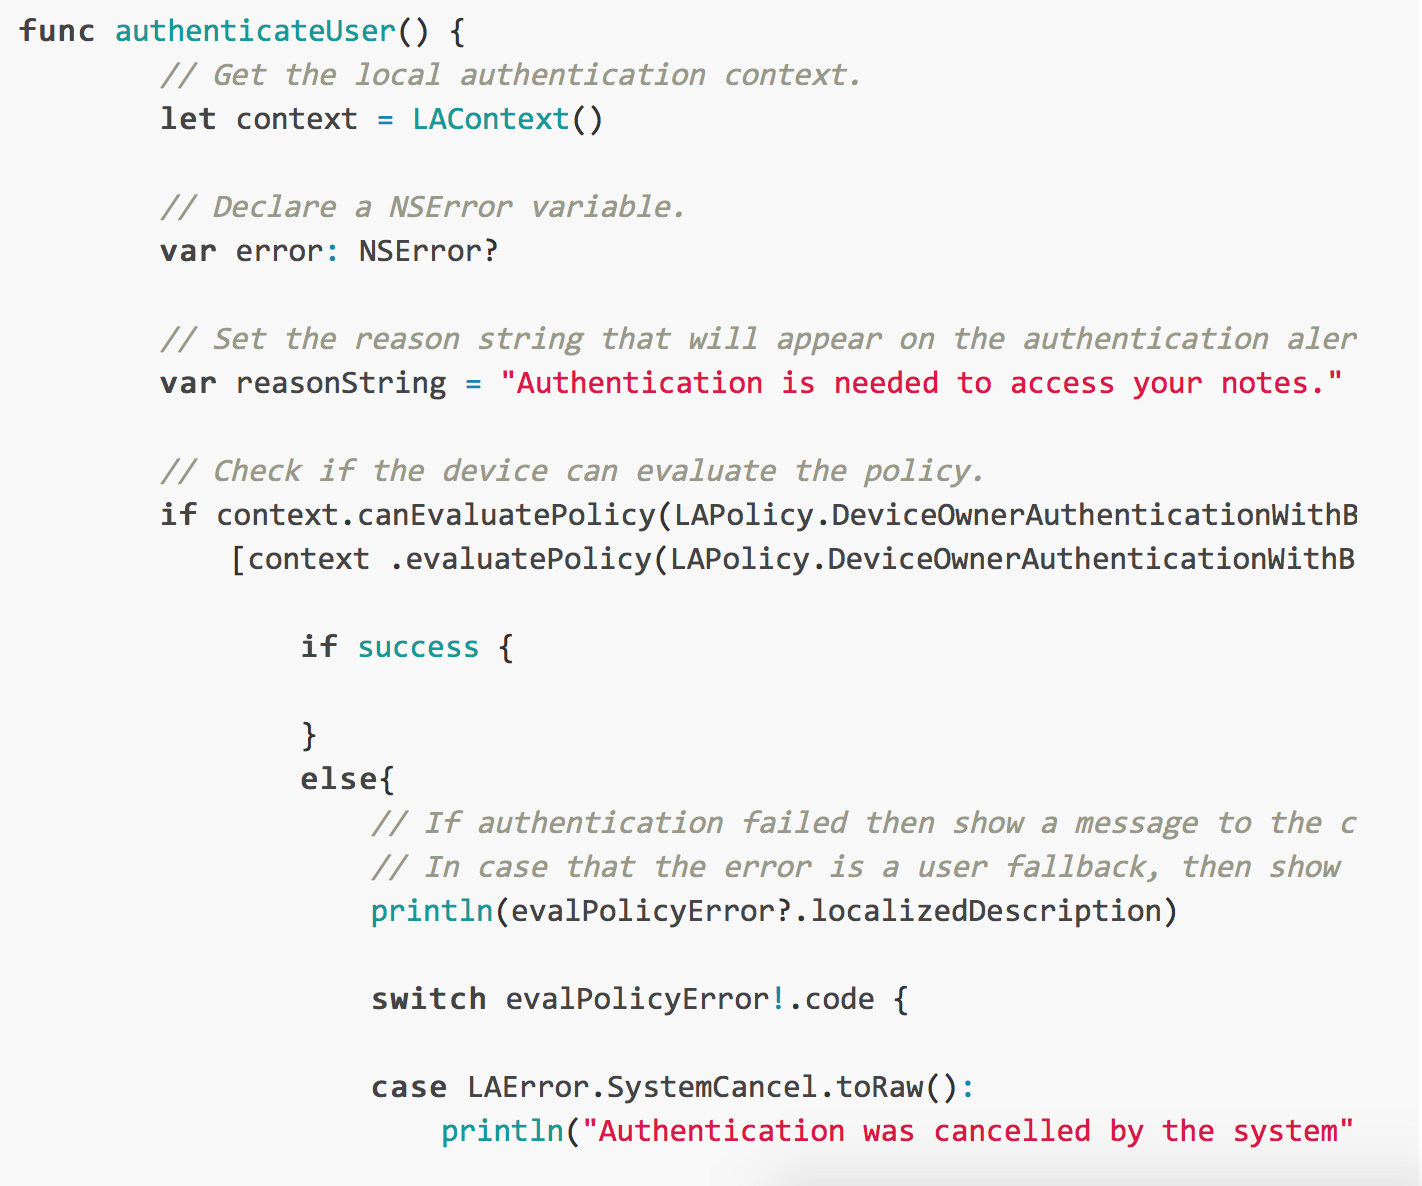
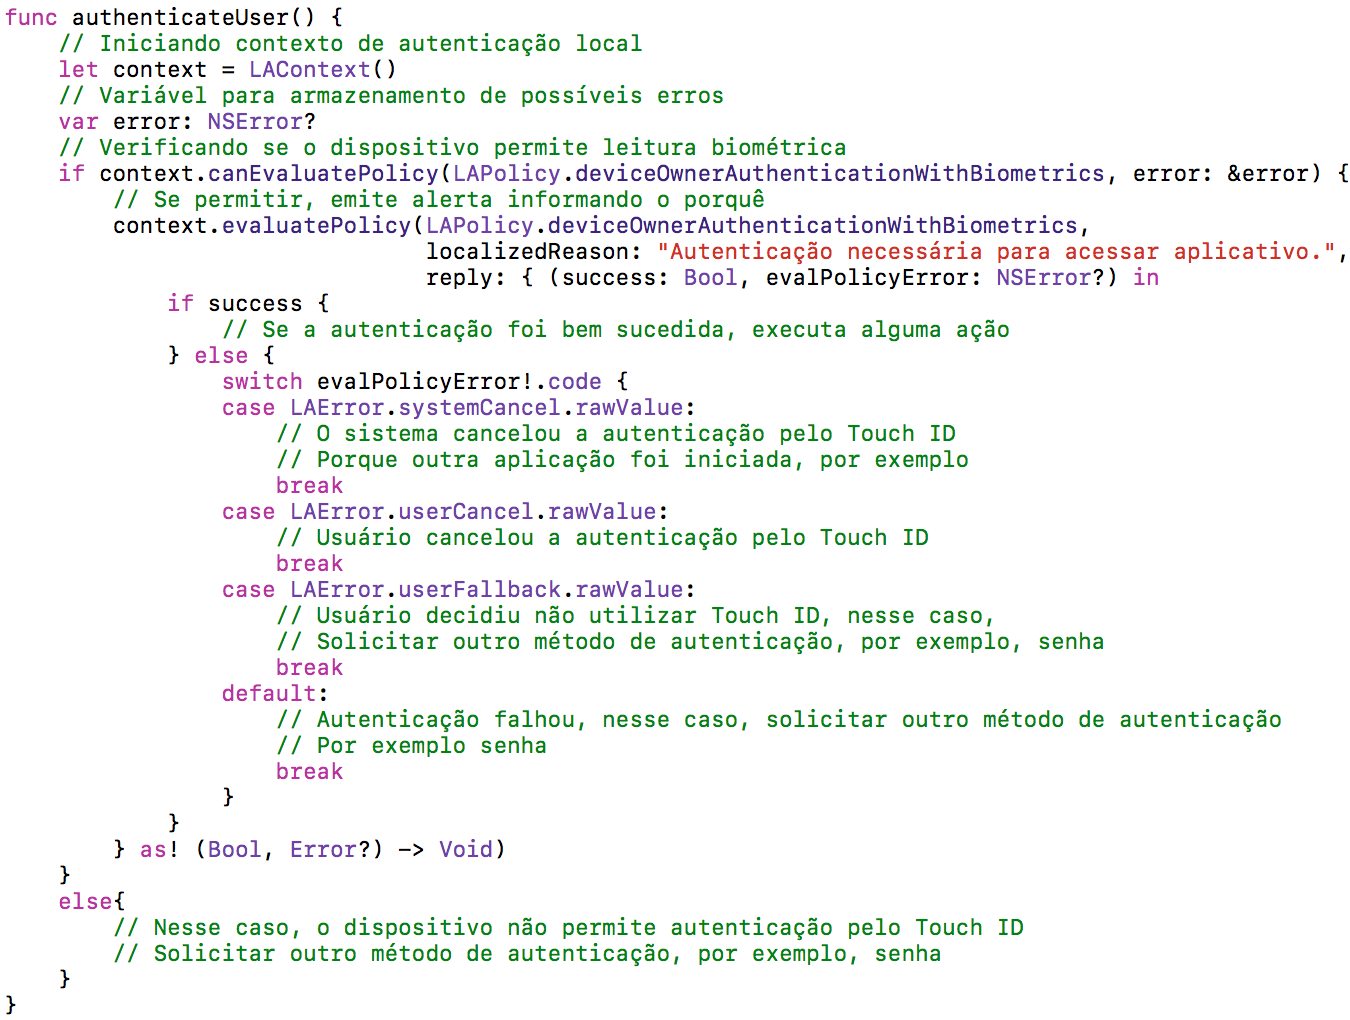
Escrevendo sobre fingerprint no android e add exemplo

diff --git a/capitulos/estudodecaso.tex b/capitulos/estudodecaso.tex
@@ -466,16 +466,41 @@ foi introduzido no iPhone 5 e foi chamado de \textit{Touch ID}, nos dispositivos
 
 Como mencionando anteriormente, é possível proteger os dados de uma aplicação com o leitor biométrico. Para isso, o iOS dispõe do \textit{framework LocalAuthentication}, que permite que a aplicação solicite a leitura da 
 digital, caso o aparelho possua o recurso, e compare com as impressões digitais cadastradas no dispositivo. Caso o dispositivo não possua o recurso, será requerida uma senha alfanumérica comum para desbloquear os dados do 
-aplicativo. No Android, de maneira similar ao iOS, a partir da versão 6.0, foi introduzida uma nova \textit{API}, a \textit{Fingerprint Authentication}, que permite utilizar o sensor biométrico dentro dos aplicativos. A 
-seguir são apresentados trechos de códigos que implementam a verificação biométrica em iOS e Android.
+aplicativo. No Android, de maneira similar ao iOS, a partir da versão 6.0, foi introduzida uma nova \textit{API}, a \textit{Fingerprint Authentication}\footnote{\url{https://developer.android.com/about/versions/marshmallow/android-6.0.html}}, 
+que permite utilizar o sensor biométrico dentro dos aplicativos. No Android, é preciso efetuar alguns passos, listados a seguir, antes de poder utilizar a autenticação biométrica. 
+
+\begin{itemize}
+	\item \textbf{Permissão}: É preciso adicionar uma permissão especial no arquivo \textit{Manifest} para que seja possível utilizar o sensor;
+	\begin{itemize}
+		\item \textit{<uses-permission android:name=``android.permission.USE\_FINGERPRINT''/>} 
+	\end{itemize}
+	\item \textbf{\textit{Container} de chaves}: É preciso acessar o \textit{container} de chaves do Android, para poder armazenar uma chave que será criada para a aplicação;
+	\begin{itemize}
+		\item \textit{KeyStore}: onde o sistema guarda todas as chaves de criptografia;
+	\end{itemize}
+	\item \textbf{Gerar uma chave}: Tendo acesso ao \textit{KeyStore}, é preciso gerar uma chave para a aplicação e então armazená-la no \textit{KeyStore};
+\end{itemize}
+
+A seguir são apresentados trechos de códigos que implementam a verificação biométrica em iOS e Android.
 
 \begin{figure}[H]
 	\centering
 	\includegraphics[width=1\textwidth]{codes/ios/touchid}
 	\caption[Implementação do Touch ID no iOS]{Implementação do Touch ID no iOS. Fonte: Baseado em AppCoda\protect\footnotemark}
-	\label{fig:forcetouch-ionic}
+	\label{fig:touchid-ios}
 \end{figure}
 \footnotetext{\url{https://www.appcoda.com/touch-id-api-ios8/}}
+\begin{figure}[H]
+	\centering
+	\includegraphics[width=1\textwidth]{codes/android/fingerprint}
+	\caption[Implementação da leitura biométrica no Android]{Implementação da leitura biométrica no Android. Fonte: Baseado em Google\protect\footnotemark}
+	\label{fig:fingerprint-android}
+\end{figure}
+\footnotetext{\url{https://developer.android.com/samples/FingerprintDialog/index.html}}
+%http://www.techotopia.com/index.php/An_Android_Fingerprint_Authentication_Tutorial
+%https://github.com/googlesamples/android-FingerprintDialog
+
+
 
 \subsubsection{Extração de metadados de arquivos} \label{subsubsec:extracaometadata}
 Em alguns casos, pode ser necessário a extração de metadados de algum arquivo específico, como uma imagem ou um áudio. No caso de uma imagem, podem ser retiradas informações como local, hora de criação e até mesmo 
